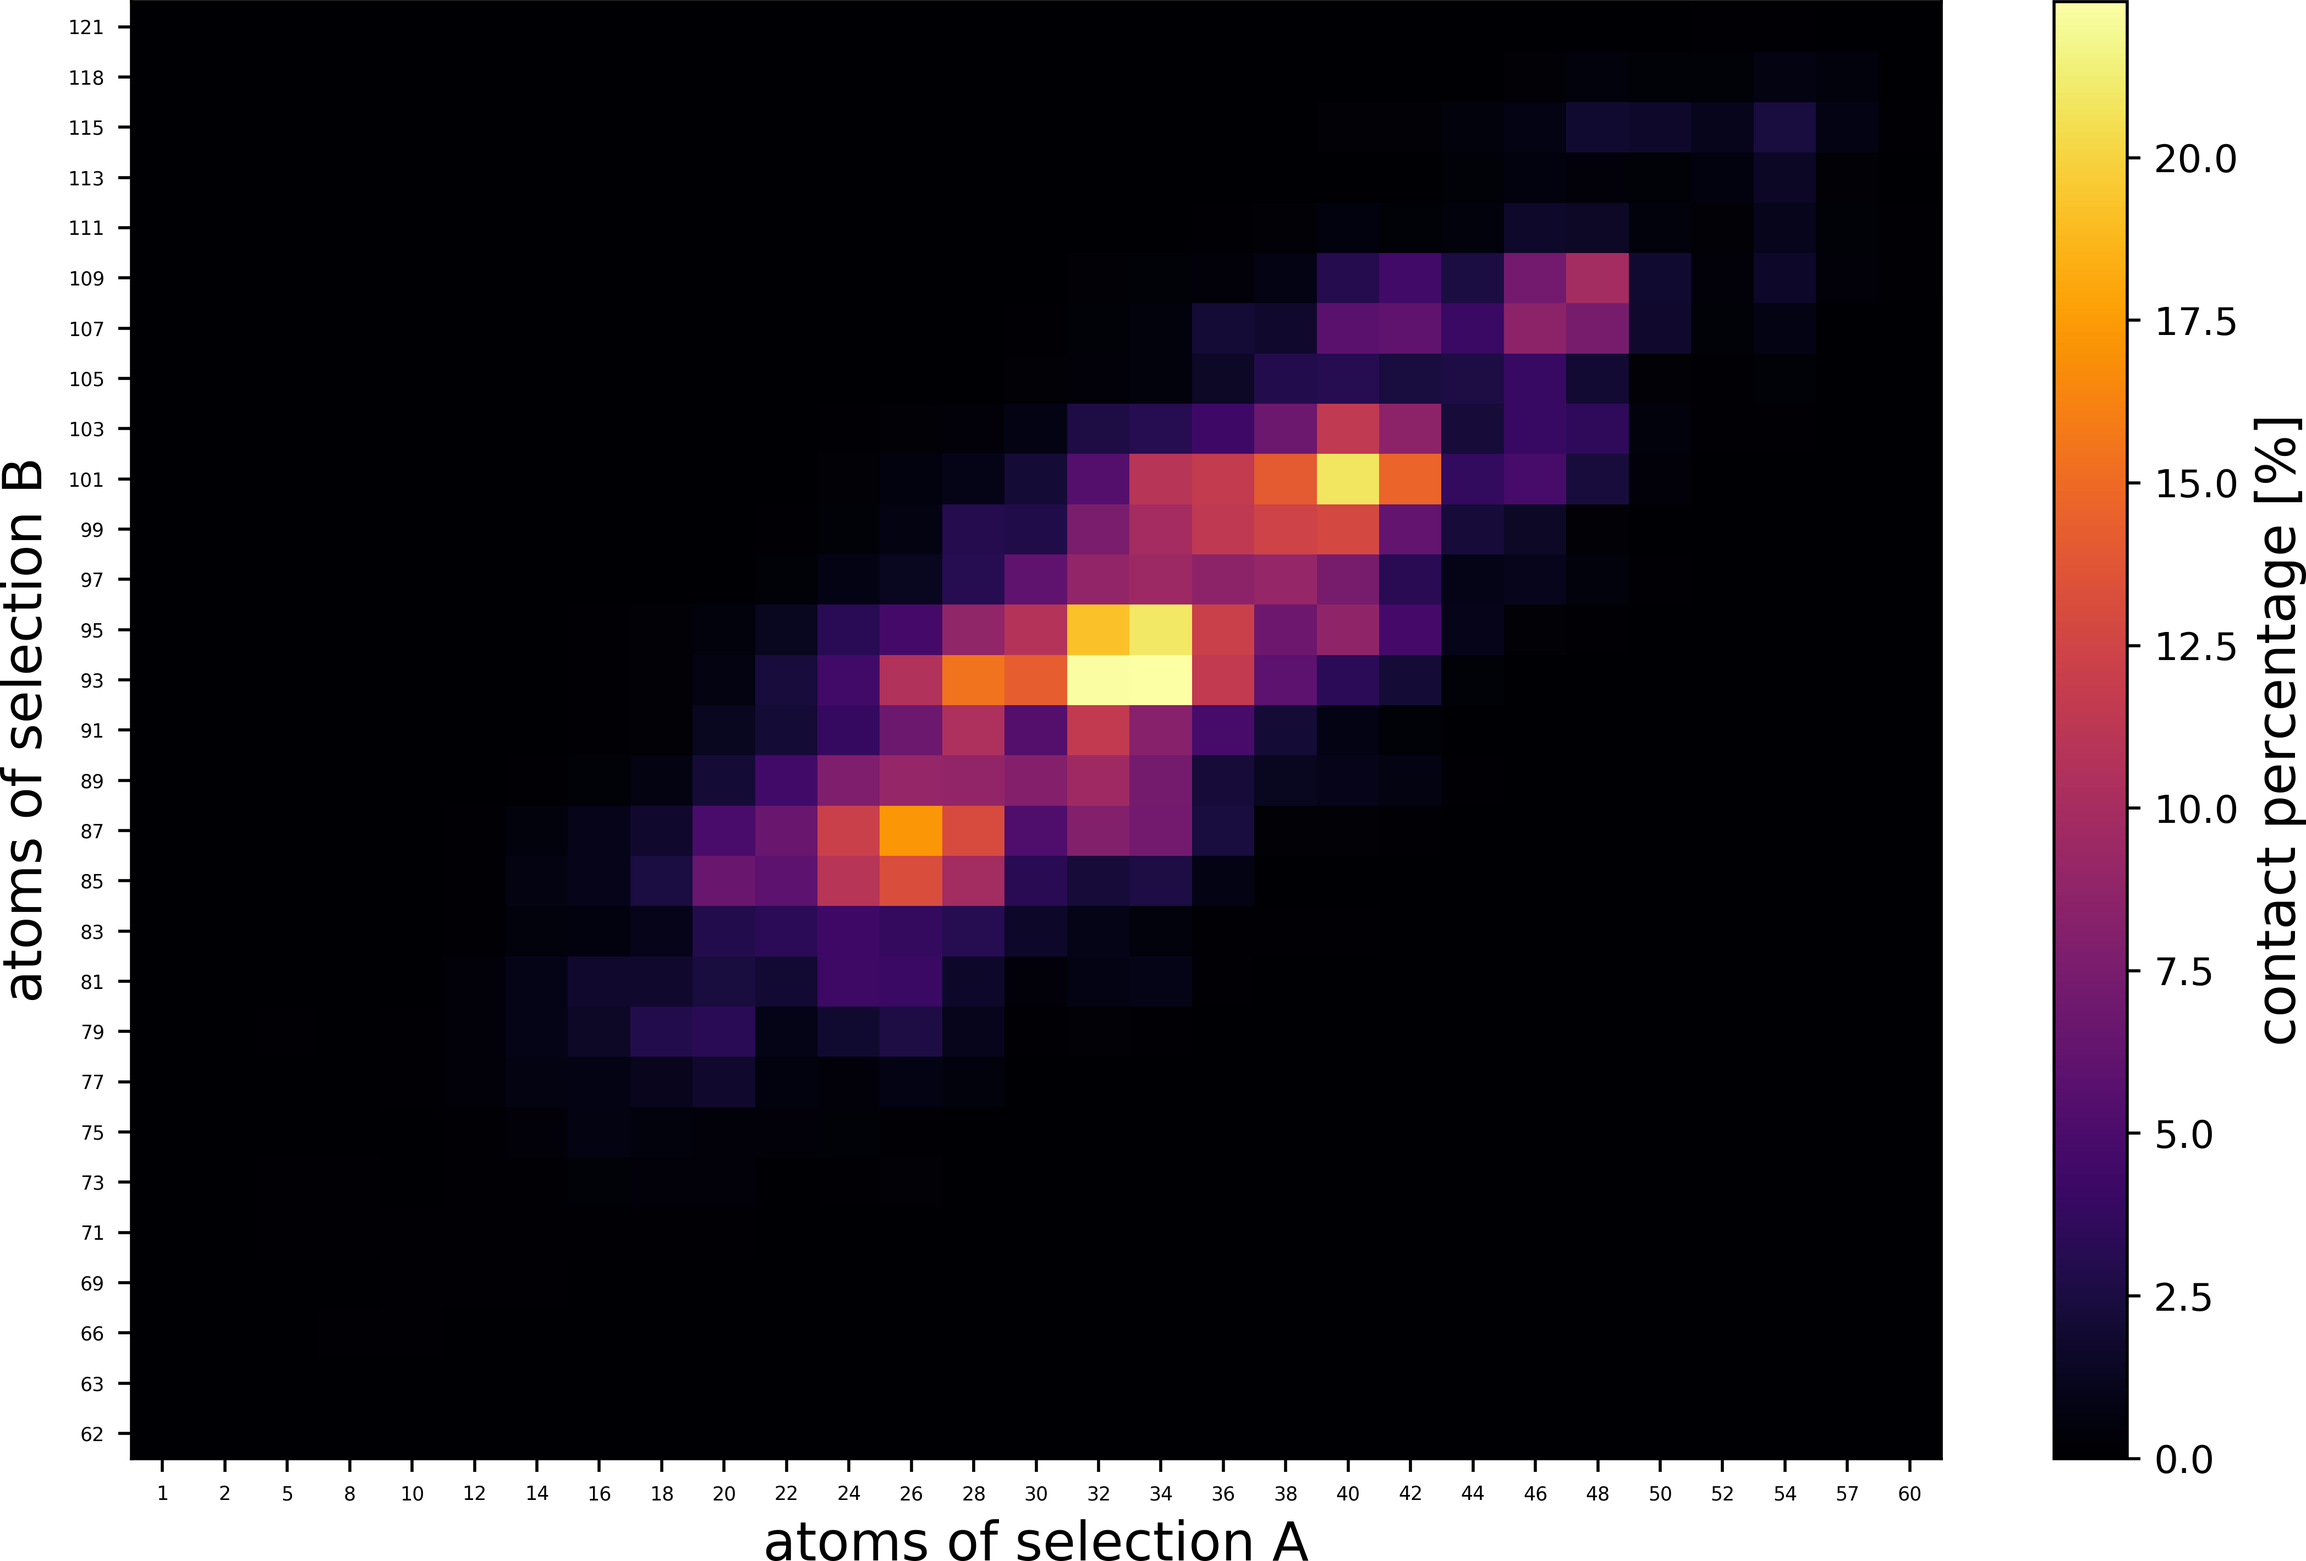
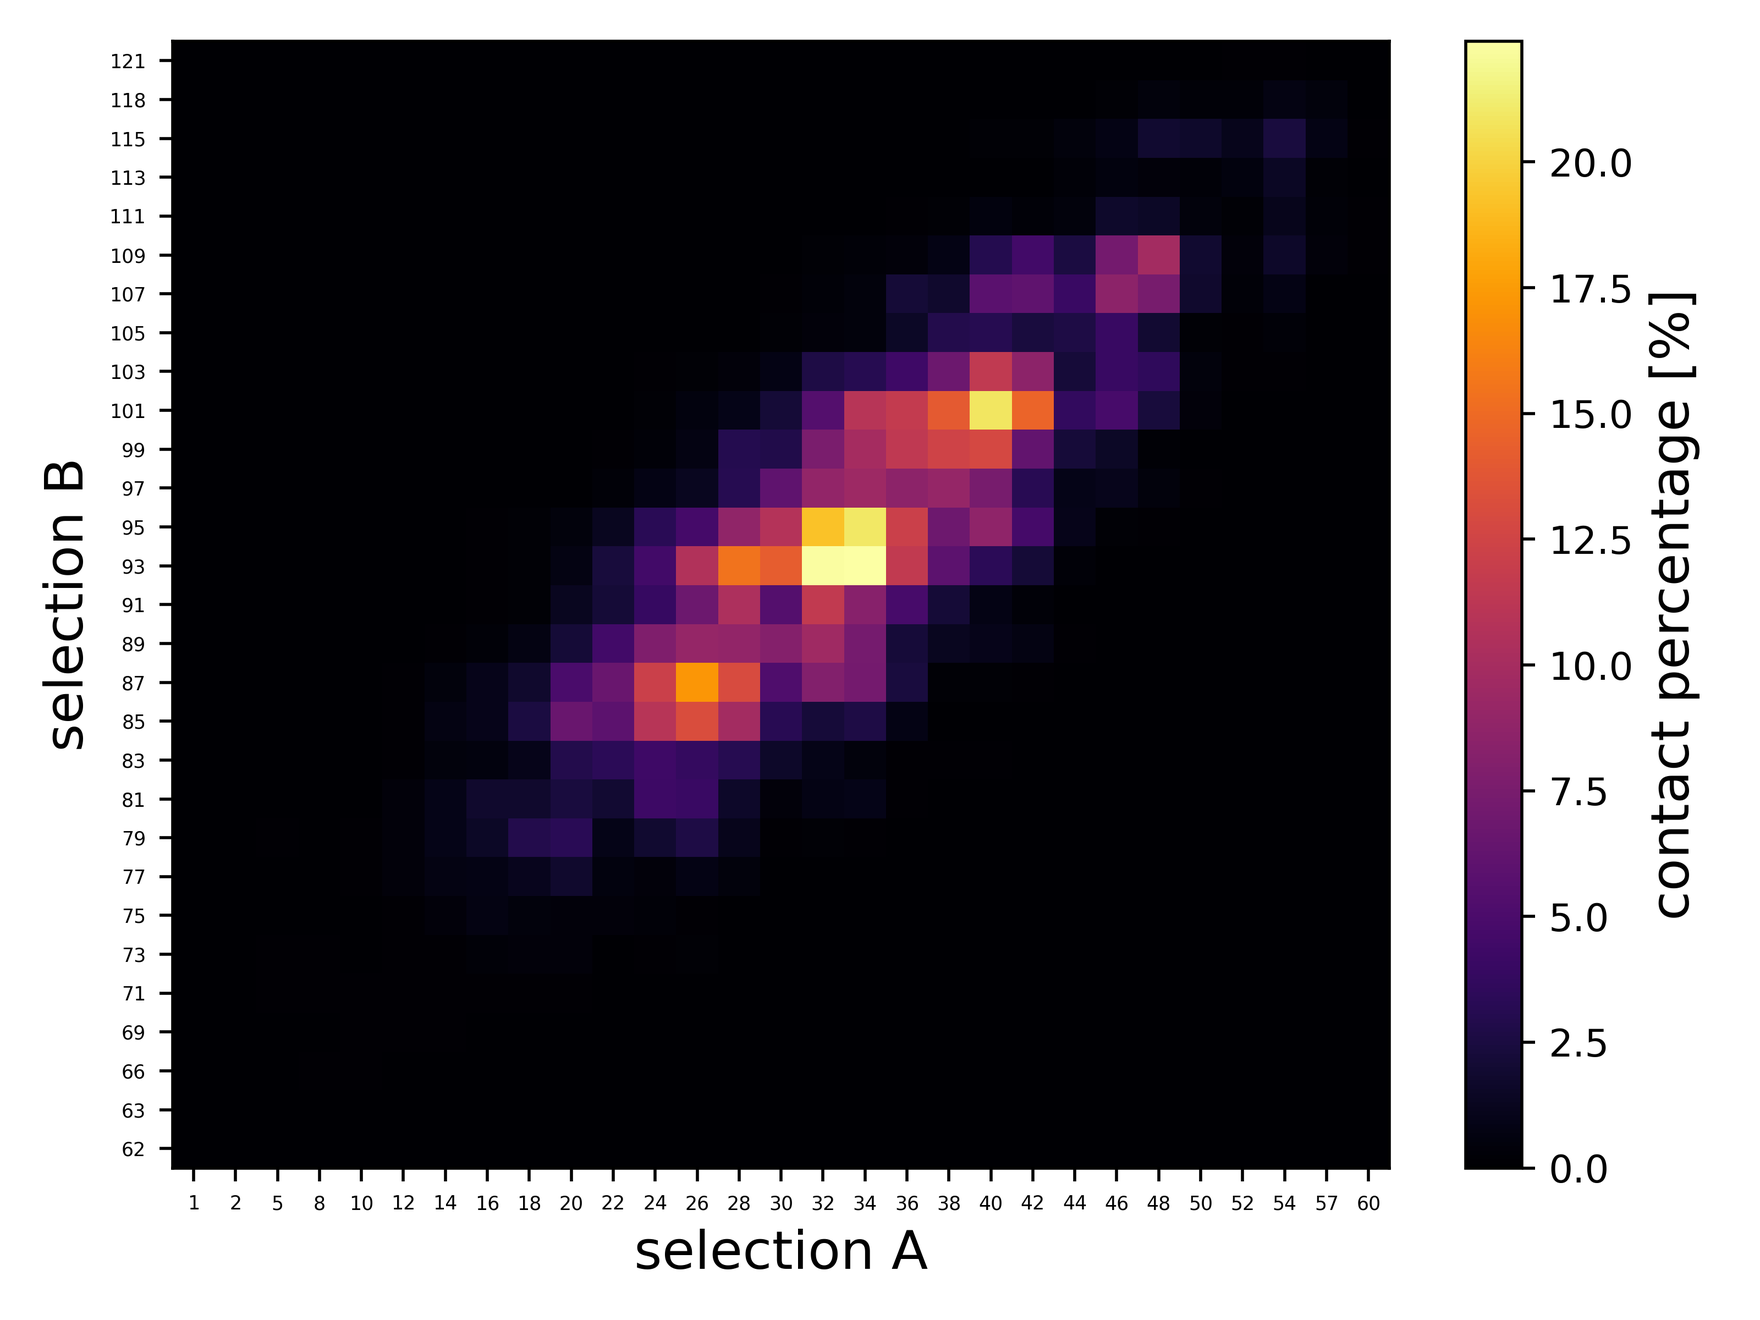
Added script for plotting contact matrices

Changed region(s): [[0.0, 0.0, 1.0, 1.0]]

diff --git a/contact_plot.py b/contact_plot.py
@@ -1,0 +1,56 @@
+"""
+This script plots the .dat file generated by 'contact'.
+The path to the file that should be plotted must be specified on the command line.
+Example: contact_plot.py examples/contact_matrix.dat
+The script generates output png file 'contact.png'.
+Requires python3 and matplotlib library.
+
+Released under MIT License.
+Copyright (c) 2022 Ladislav Bartos
+"""
+
+def main():
+    try:
+        import sys
+        import matplotlib.pyplot as plt
+    except:
+        print("This script requires the following libraries to be installed: sys, matplotlib")
+        return
+
+    if len(sys.argv) != 2:
+        print("This script expects exactly one command line argument.")
+        print("Please, provide the path to the .dat file that should be plotted.")
+        return
+
+    INPUT_DAT  = sys.argv[1]
+    OUTPUT_PNG = "contact.png"
+
+    xticks, yticks, matrix = [], [], []
+    for line in open(INPUT_DAT):
+        if line.strip()[0] == "#":
+            continue
+        if line.strip() == "":
+            continue
+        
+        splitted = line.split()
+        if line[0:7] == "       ":
+            xticks = splitted
+        else:
+            yticks.append(splitted[0])
+            matrix.append([float(x)*100 for x in splitted[1:]])
+
+    plt.pcolormesh([x for x in range(len(xticks))], [y for y in range(len(yticks))], matrix, cmap="inferno", shading = "nearest")
+    ax = plt.colorbar()
+
+    ax.set_label("contact percentage [%]", fontsize = 14)
+    plt.xticks([x for x in range(len(yticks))], fontsize = 5, labels = xticks)
+    plt.xlabel("selection A", fontsize = 14)
+    plt.yticks([x for x in range(len(xticks))], fontsize = 5, labels = yticks)
+    plt.ylabel("selection B", fontsize = 14)
+
+    plt.tight_layout()
+
+    plt.savefig(OUTPUT_PNG, format = "png", dpi = 500)
+
+if __name__ == "__main__":
+    main()
